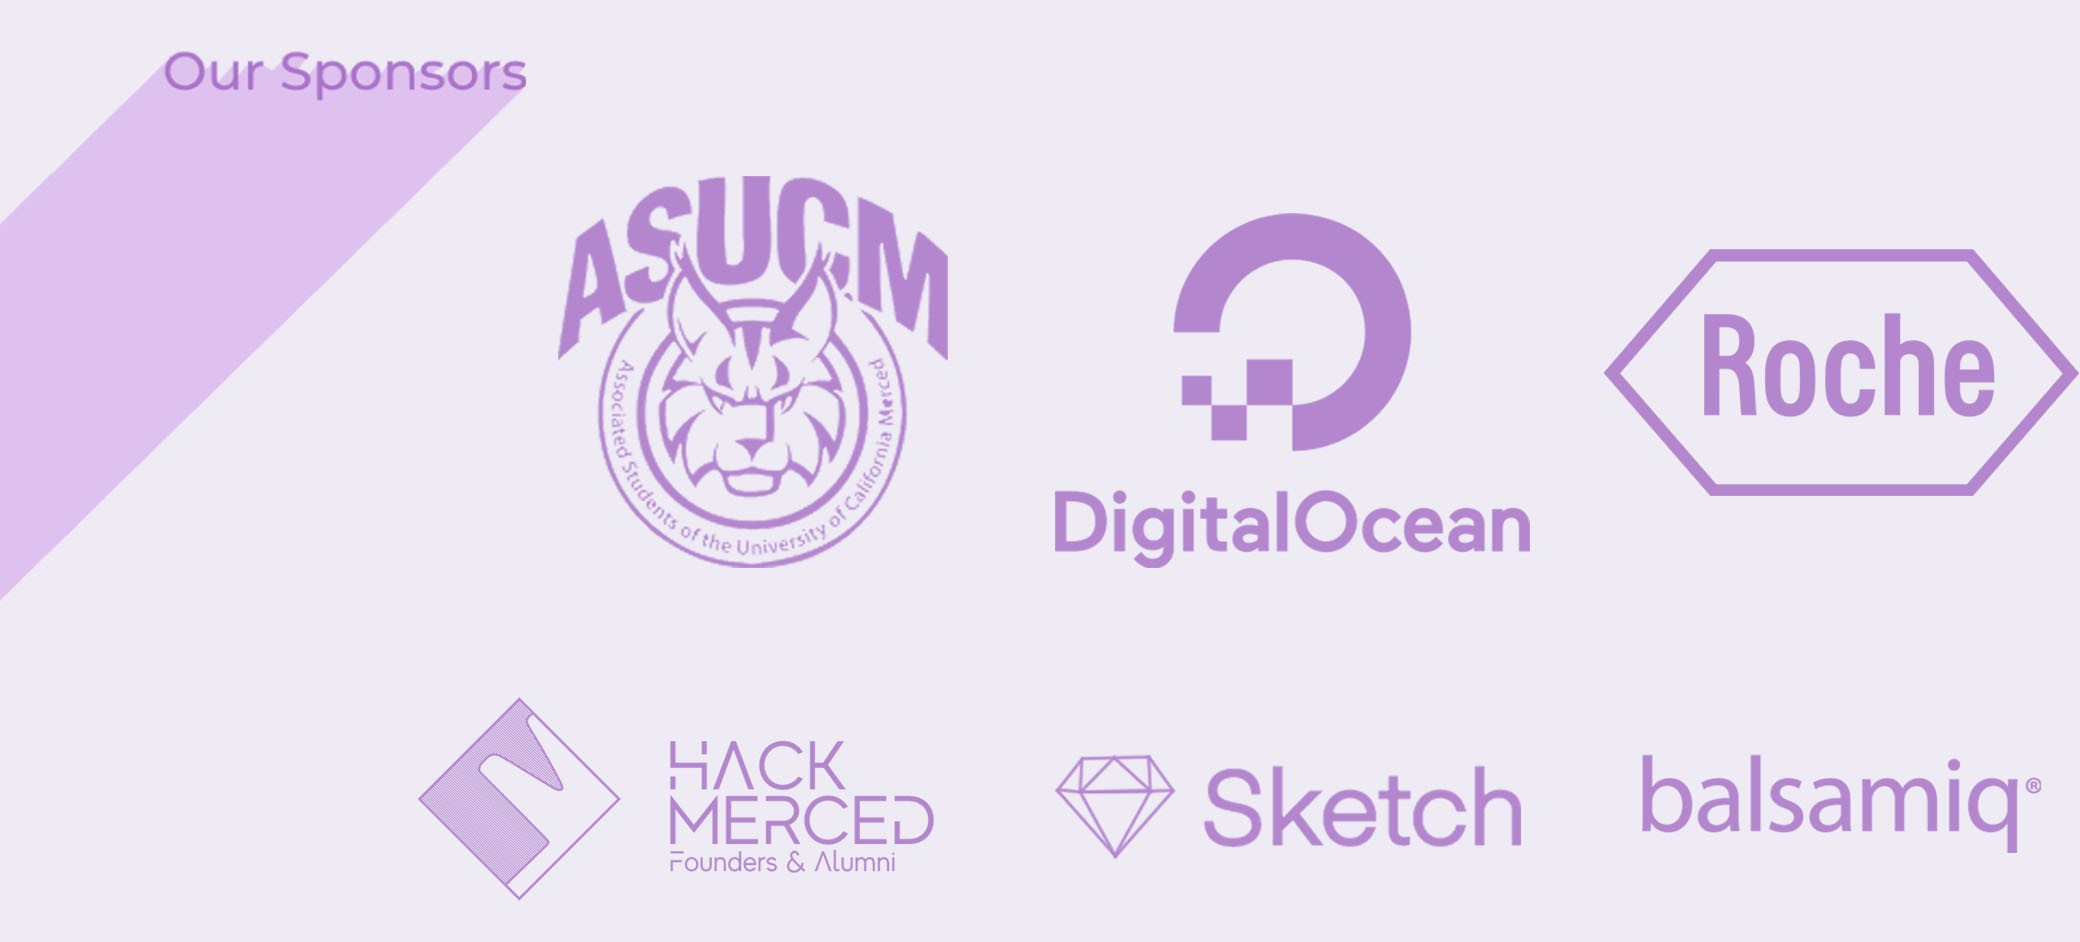
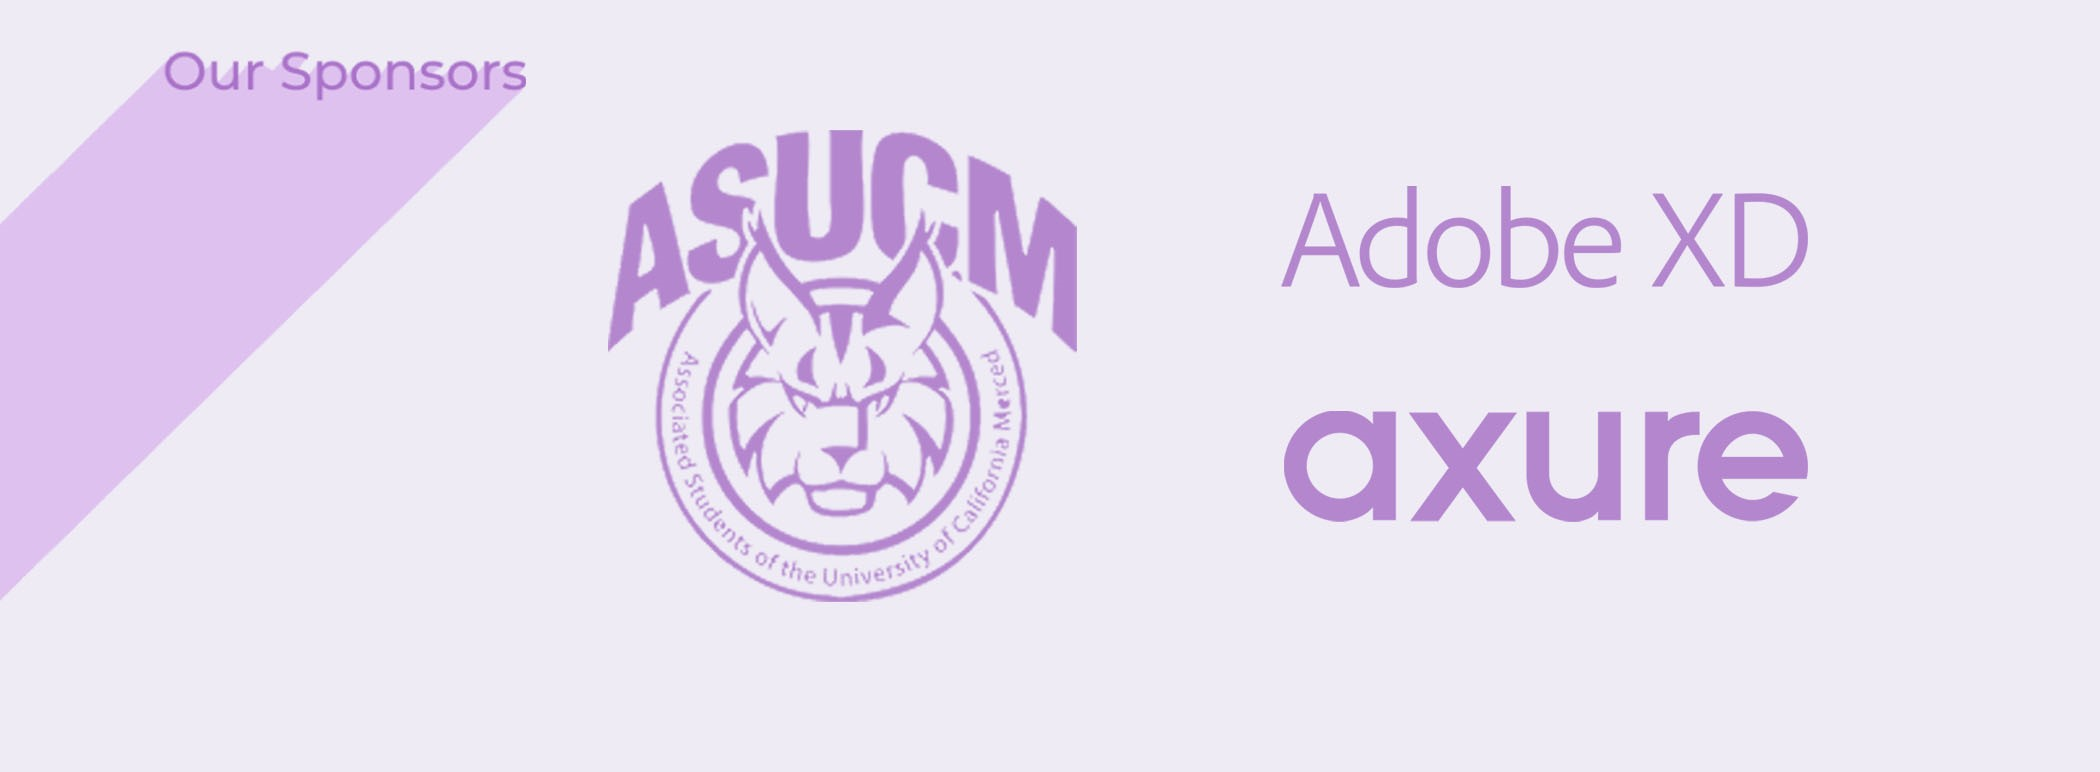
add: three sponsors

diff --git a/src/pages/DesignMerced/designmerced.tsx b/src/pages/DesignMerced/designmerced.tsx
@@ -7,7 +7,7 @@ import AboutUsDesign from '../../components/DesignMercedAboutUs/DesignMercedAbou
 import Prompt from '../../components/DesignPrompt/designprompt';
 import DesignMercedFAQ from '../../components/DesignMercedFAQ/DesignMercedFAQ';
 // import Schedule from '../../components/Schedule Design/schedule-design';
-// import Sponsors from '../../components/Sponsors Design/sponsors-design';
+import Sponsors from '../../components/Sponsors Design/sponsors-design';
 
 const DesignMerced: FC = (): JSX.Element => {
     return (
@@ -18,7 +18,7 @@ const DesignMerced: FC = (): JSX.Element => {
             <Prompt />
             <DesignMercedFAQ />
             {/* <Schedule /> */}
-            {/* <Sponsors /> */}
+            <Sponsors />
             <Footer backgroundColor="#0d0721" textColor="#EEEBF5" fontColor="#EEEBF5" />
         </main>
     );

diff --git a/src/components/NavBar/navbar.tsx b/src/components/NavBar/navbar.tsx
@@ -72,10 +72,10 @@ const Navbar: FC<{ backgroundColor?: string; textColor?: string; breakLineColor?
                         <Link to="/contact-us">Contact Us</Link>
                         {pathname === '/contact-us' ? BreakLine() : null}
                     </Menu.Item>
-                    <Menu.Item>
+                    {/* <Menu.Item>
                         <Link to="/login">Login</Link>
                         {pathname === '/login' ? <div className="break-line"></div> : null}
-                    </Menu.Item>
+                    </Menu.Item> */}
                 </Menu.Items>
             </Menu.Wrapper>
         </Styles.Wrapper>
